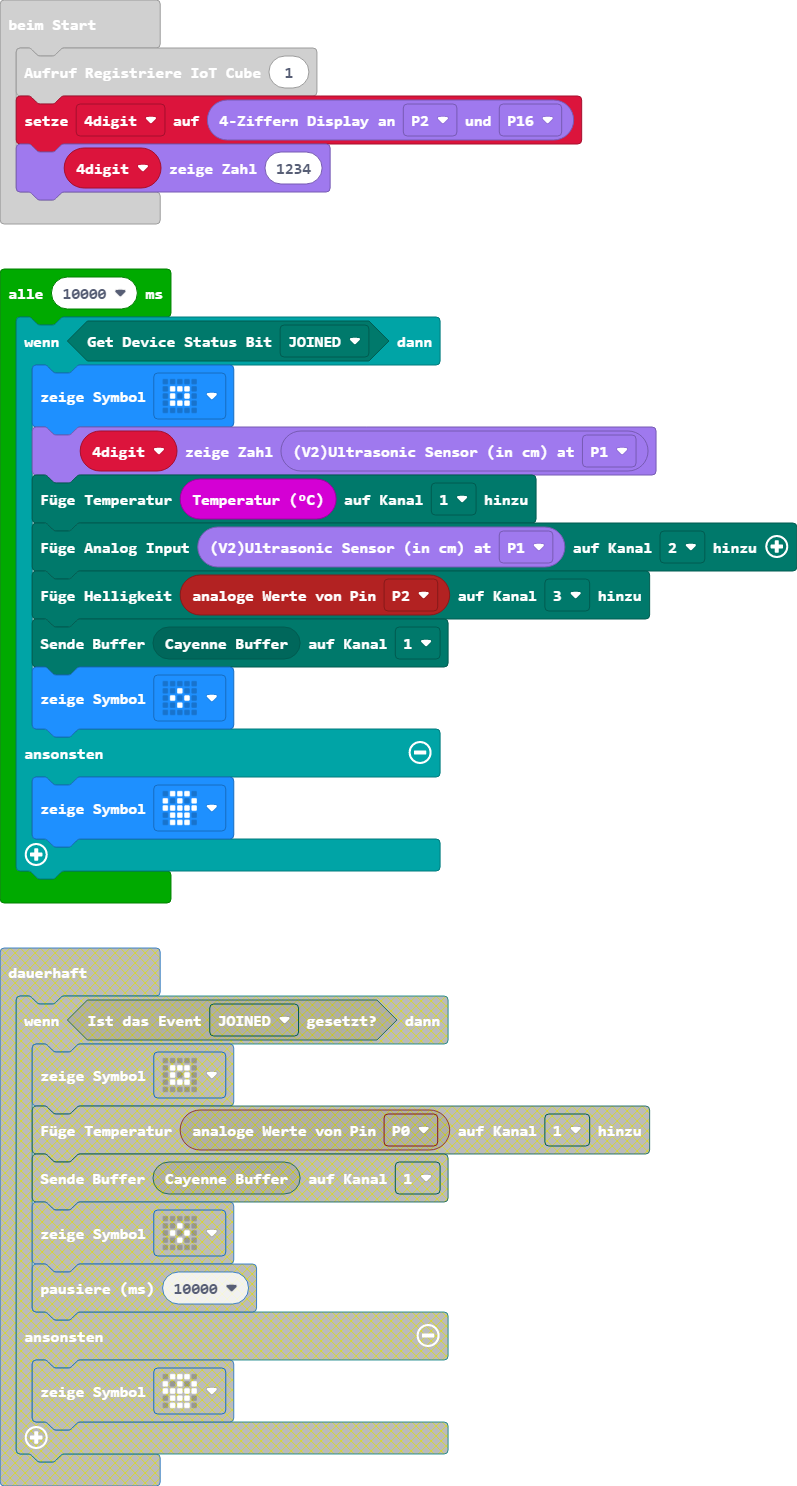
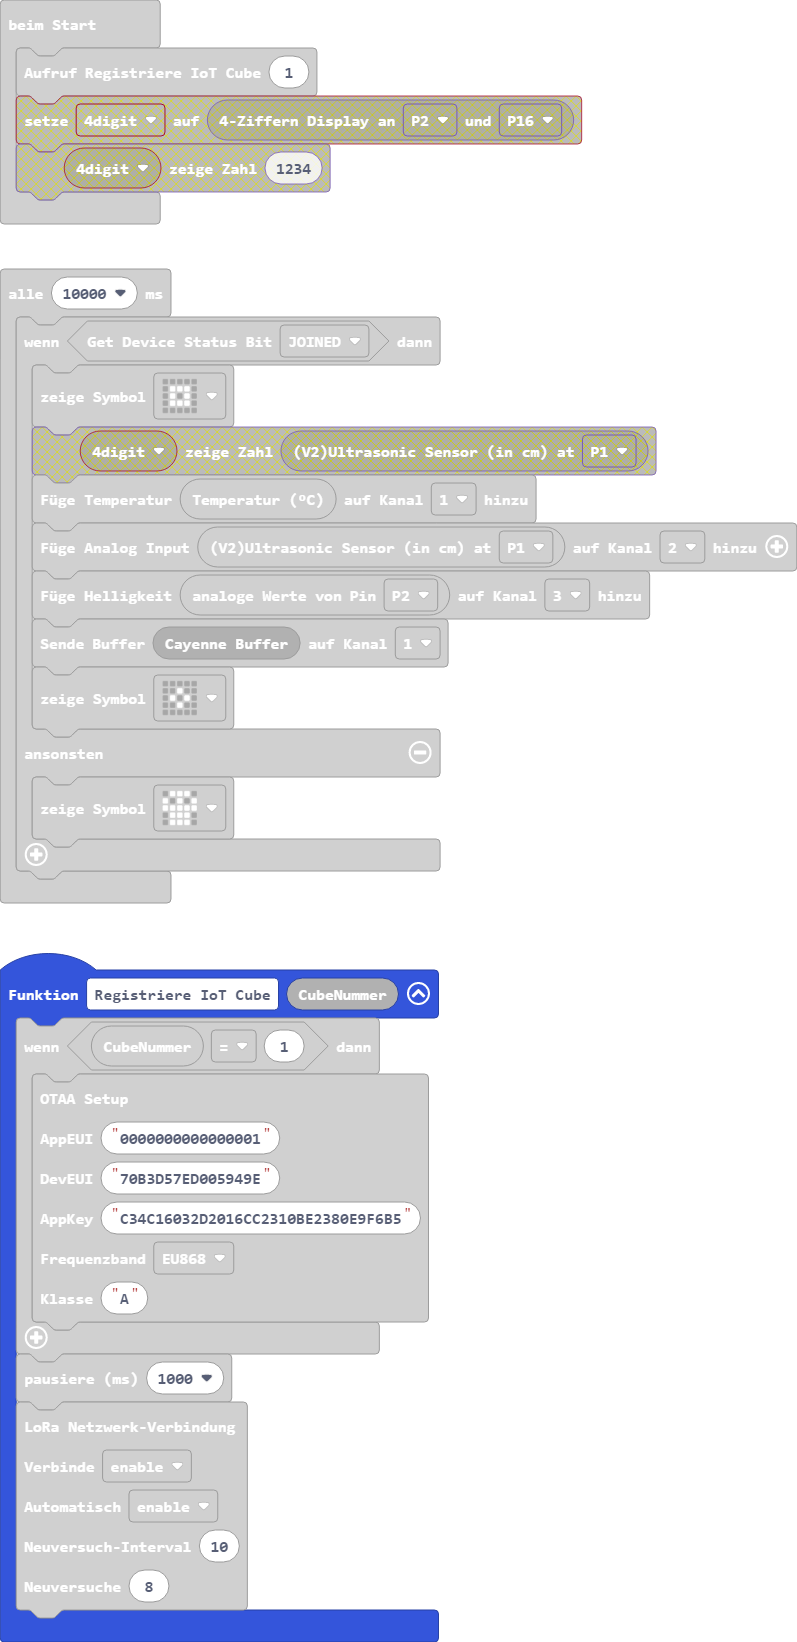
Aktualisiere main.blocks, main.ts

diff --git a/main.ts b/main.ts
@@ -17,12 +17,9 @@ function Registriere_IoT_Cube (CubeNummer: number) {
     )
 }
 Registriere_IoT_Cube(1)
-let _4digit = grove.createDisplay(DigitalPin.P2, DigitalPin.P16)
-_4digit.show(1234)
 loops.everyInterval(10000, function () {
     if (IoTCube.getStatus(eSTATUS_MASK.JOINED)) {
         basic.showIcon(IconNames.SmallSquare)
-        _4digit.show(grove.measureInCentimetersV2(DigitalPin.P1))
         IoTCube.addTemperature(input.temperature(), Channels.One)
         IoTCube.addAnalogInput(grove.measureInCentimetersV2(DigitalPin.P1), Channels.Two)
         IoTCube.addIlluminance(pins.analogReadPin(AnalogPin.P2), Channels.Three)
